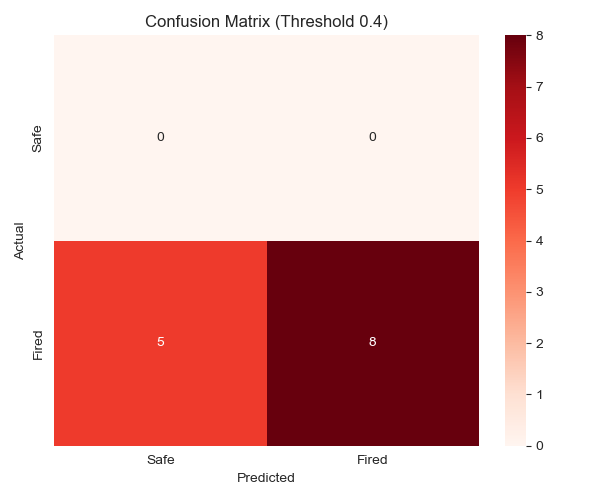
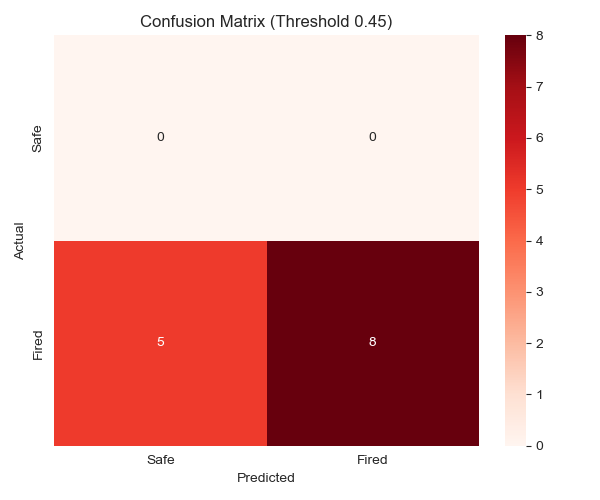
some more changing

Changed region(s): [[0.24, 0.03, 0.66, 0.06]]

diff --git a/coacheChangings.py b/coacheChangings.py
@@ -30,29 +30,23 @@ except FileNotFoundError as e:
 print("Engineering Features...")
 
 coaches_df = coaches_df.sort_values(['tmID', 'year', 'stint'])
-coaches_df = coaches_df.drop_duplicates(subset=['tmID', 'year'], keep='last').copy()
+model_df = coaches_df.drop_duplicates(subset=['tmID', 'year'], keep='last').copy()
 
-coaches_df.sort_values(['tmID', 'year'], inplace=True)
-coaches_df['next_coachID'] = coaches_df.groupby('tmID')['coachID'].shift(-1)
+model_df.sort_values(['tmID', 'year'], inplace=True)
+model_df['next_coachID'] = model_df.groupby('tmID')['coachID'].shift(-1)
 
-model_df = coaches_df.copy()
+model_df['coach_change'] = (model_df['coachID'] != model_df['next_coachID']).astype(float)
 
-model_df['coach_change'] = (model_df['coachID'] != model_df['next_coachID']).astype(int)
-
-model_df['made_playoffs'] = np.where((model_df['post_wins'] + model_df['post_losses']) > 0, 1, 0)
-
-model_df['prev_wins'] = model_df.groupby('tmID')['won'].shift(1)
-model_df['delta_wins'] = model_df['won'] - model_df['prev_wins']
-model_df['delta_wins'] = model_df['delta_wins'].fillna(0)
+model_df['league_rank'] = model_df.groupby('year')['win_pct'].rank(ascending=False, method='min')
 
 model_df['prev_win_pct'] = model_df.groupby('tmID')['win_pct'].shift(1)
-model_df['performance_trend'] = model_df['win_pct'] - model_df['prev_win_pct']
-model_df['performance_trend'] = model_df['performance_trend'].fillna(0)
+model_df['win_pct_delta'] = model_df['win_pct'] - model_df['prev_win_pct']
+model_df['win_pct_delta'] = model_df['win_pct_delta'].fillna(0)
 
 print("Calculating Roster Churn...")
 p_minutes = players_df.groupby(['year', 'tmID', 'playerID'])['minutes'].sum().reset_index()
 
-churn_data = []
+churn_map = {}
 teams = p_minutes['tmID'].unique()
 years = sorted(p_minutes['year'].unique())
 
@@ -60,31 +54,29 @@ for team in teams:
     team_data = p_minutes[p_minutes['tmID'] == team]
     for year in years:
         if year == 1:
-            churn_data.append({'tmID': team, 'year': year, 'roster_churn': 0})
+            churn_map[(team, year)] = 0
             continue
         
         curr_roster = team_data[team_data['year'] == year]
         prev_roster = team_data[team_data['year'] == year - 1]
 
         if prev_roster.empty or curr_roster.empty:
-            churn_data.append({'tmID': team, 'year': year, 'roster_churn': 0})
+            churn_map[(team, year)] = 0.5
             continue
 
-        returning_players = set(prev_roster['playerID'])
+        prev_players = set(prev_roster['playerID'])
         curr_total_minutes = curr_roster['minutes'].sum()
 
         if curr_total_minutes == 0:
             churn_val = 0
         else:
-            returning_minutes = curr_roster[curr_roster['playerID'].isin(returning_players)]['minutes'].sum()
+            returning_minutes = curr_roster[curr_roster['playerID'].isin(prev_players)]['minutes'].sum()
             stability = returning_minutes / curr_total_minutes
             churn_val = 1 - stability
 
-        churn_data.append({'tmID': team, 'year': year, 'roster_churn': churn_val})
+        churn_map[(team, year)] = churn_val
 
-churn_df = pd.DataFrame(churn_data)
-model_df = model_df.merge(churn_df, on=['tmID', 'year'], how='left')
-model_df['roster_churn'] = model_df['roster_churn'].fillna(0)
+model_df['roster_churn'] = model_df.apply(lambda x: churn_map.get((x['tmID'], x['year']), 0), axis=1)
 
 # =========================================================
 # STEP 3: PREPARE MODEL
@@ -92,39 +84,39 @@ model_df['roster_churn'] = model_df['roster_churn'].fillna(0)
 
 features = [
     'win_pct',
-    'made_playoffs',
+    'league_rank',
+    'win_pct_delta',
     'tenure_years',
-    'performance_trend',
-    'delta_wins',
     'roster_churn',
     'won',
     'lost'
 ]
 target = 'coach_change'
 
-model_df = model_df.dropna(subset=features)
-
 latest_season = model_df['year'].max()
 
 train_df = model_df[model_df['year'] < latest_season].copy()
+train_df = train_df.dropna(subset=[target])
+
 test_df = model_df[model_df['year'] == latest_season].copy()
 
-train_df = train_df.dropna(subset=['next_coachID'])
+train_df[features] = train_df[features].fillna(0)
+test_df[features] = test_df[features].fillna(0)
 
 X_train = train_df[features]
 y_train = train_df[target]
 X_test = test_df[features]
-y_test = test_df[target]
+y_test = test_df[target] if not test_df[target].isna().all() else None
 
-print(f"Treino: {len(X_train)} amostras (épocas até {int(latest_season-1)})")
-print(f"Teste: {len(X_test)} amostras (época {int(latest_season)})")
+print(f"Training Data: {X_train.shape[0]} samples")
+print(f"Test Data: {X_test.shape[0]} samples (Year {int(latest_season)})")
 
 # =========================================================
 # STEP 4: TRAINING 
 # =========================================================
 print("\n Training Random Forest Classifier...")
 
-rf = RandomForestClassifier(n_estimators=500, random_state=42, class_weight='balanced', max_depth=8)
+rf = RandomForestClassifier(n_estimators=500, random_state=42, class_weight='balanced', max_depth=6, min_samples_leaf=4)
 rf.fit(X_train, y_train)
 
 print("Model trained successfully!")
@@ -133,7 +125,7 @@ print("\n Evaluating model performance...")
 
 y_prob = rf.predict_proba(X_test)[:, 1]
 
-THRESHOLD = 0.40
+THRESHOLD = 0.45
 y_pred_custom = (y_prob >= THRESHOLD).astype(int)
 
 # =========================================================
@@ -183,7 +175,7 @@ results = test_df.copy()
 results['firing_probability'] = y_prob
 results['predicted_change'] = y_pred_custom
 
-hot_seat = results[results['predicted_change'] == 1][['tmID', 'coachID', 'win_pct', 'delta_wins', 'roster_churn', 'firing_probability']]
+hot_seat = results[results['predicted_change'] == 1][['tmID', 'coachID', 'win_pct', 'league_rank', 'win_pct_delta', 'firing_probability']]
 hot_seat = hot_seat.sort_values('firing_probability', ascending=False)
 
 print("\nCOACHES ON THE HOT SEAT (Predicted Change):")
